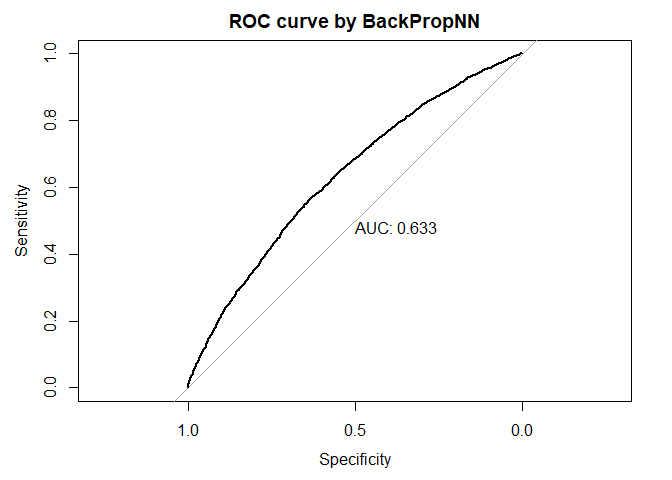
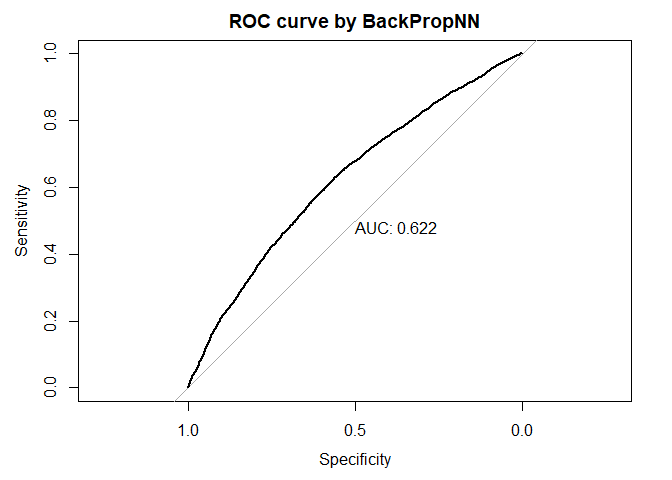
Updated the README file to include the comparison between original and Rcpp versions.

diff --git a/README.md b/README.md
@@ -15,19 +15,14 @@ learning from the errors of each dataset point one by one. In this
 package, 3 layer (input, one hidden and output) neural network is
 considered. The mathematical equation involved are given below,
 
-FeedForward:
-
-\[H\] = sigma(\[W_IH\].\[I\] + \[B_H\])  
-\[O\] =
+FeedForward: \[H\] = sigma(\[W_IH\].\[I\] + \[B_H\]) \[O\] =
 sigma(\[W_HO\].\[H\] + \[B_O\])
 
-Backpropagation:
-
-\[delta_W\_HO\] =
-(learning_rate)\[Output_Errors\]x\[O(1-O)\].\[H_tranpose\]  
+Backpropagation: \[delta_W\_HO\] =
+(learning_rate)\[Output_Errors\]x\[O(1-O)\].\[H_tranpose\]
 \[delta_W\_IH\] =
-(learning_rate)\[Hiddden_Errors\]x\[H(1-H)\].\[I_tranpose\]  
-\[delta_B\_O\] = (learning_rate)\[Output_Errors\]x\[O(1-O)\]  
+(learning_rate)\[Hiddden_Errors\]x\[H(1-H)\].\[I_tranpose\]
+\[delta_B\_O\] = (learning_rate)\[Output_Errors\]x\[O(1-O)\]
 \[delta_B\_H\] = (learning_rate)\[Hidden_Errors\]x\[H(1-H)\]
 
 Where, \[\] represents the matrix, x represents the Hadamard
@@ -100,8 +95,8 @@ plot(nn_model)
     #> Call:
     #> roc.default(response = data[, ncol(data)], predictor = nn_R_pred,     plot = TRUE, print.auc = TRUE, main = "ROC curve by R nnet")
     #> 
-    #> Data: nn_R_pred in 4965 controls (data[, ncol(data)] 0) < 5035 cases (data[, ncol(data)] 1).
-    #> Area under the curve: 0.4984
+    #> Data: nn_R_pred in 4970 controls (data[, ncol(data)] 0) < 5030 cases (data[, ncol(data)] 1).
+    #> Area under the curve: 0.5
     summary(nn_model)
     #> $num_nodes
     #>  # of input nodes # of hidden nodes # of output nodes 
@@ -115,35 +110,69 @@ plot(nn_model)
     #> 
     #> $weight_bias_matrices
     #> $weight_bias_matrices$weight_input_hidden
-    #>              X1         X2
-    #> [1,] 0.05074066 0.04718817
-    #> [2,] 0.05074066 0.04718817
-    #> [3,] 0.05074066 0.04718817
-    #> [4,] 0.05074066 0.04718817
+    #>               X1          X2
+    #> [1,] -0.01080641 -0.08982863
+    #> [2,] -0.01080641 -0.08982863
+    #> [3,] -0.01080641 -0.08982863
+    #> [4,] -0.01080641 -0.08982863
     #> 
     #> $weight_bias_matrices$weight_hidden_output
-    #>             [,1]        [,2]        [,3]        [,4]
-    #> [1,] -0.03679344 -0.03679344 -0.03679344 -0.03679344
+    #>            [,1]       [,2]       [,3]       [,4]
+    #> [1,] 0.08357506 0.08357506 0.08357506 0.08357506
     #> 
     #> $weight_bias_matrices$bias_hidden
-    #>            [,1]
-    #> [1,] 0.01089685
-    #> [2,] 0.01089685
-    #> [3,] 0.01089685
-    #> [4,] 0.01089685
+    #>             [,1]
+    #> [1,] 0.009227459
+    #> [2,] 0.009227459
+    #> [3,] 0.009227459
+    #> [4,] 0.009227459
     #> 
     #> $weight_bias_matrices$bias_output
     #>           [,1]
-    #> [1,] 0.0858438
+    #> [1,] 0.2083556
     print(nn_model)
     #> Warning: Some expressions had a GC in every iteration; so filtering is disabled.
     #> # A tibble: 2 x 13
     #>   expression   min median `itr/sec` mem_alloc gc/se~1 n_itr  n_gc total~2 result
     #>   <bch:expr> <dbl>  <dbl>     <dbl>     <dbl>   <dbl> <int> <dbl> <bch:t> <list>
-    #> 1 BackPropNN  39.1   23.7      1         1        Inf     1    14   502ms <NULL>
-    #> 2 R nnet       1      1        5.70      6.82     NaN     8     0   705ms <NULL>
+    #> 1 BackPropNN  23.8   20.5      1         1       15.9     2    26   864ms <NULL>
+    #> 2 R nnet       1      1        6.56      6.82     1       8     1   527ms <NULL>
     #> # ... with 3 more variables: memory <list>, time <list>, gc <list>, and
     #> #   abbreviated variable names 1: `gc/sec`, 2: total_time
     #> $mse_comparison
     #>     MSE by R nnet MSE by BackPropNN 
-    #>         0.2359459         0.2503443
+    #>         0.2369558         0.2523825
+
+# Now, let’s check if the Rcpp version of BackPropNN helps to improve the computational speed.
+
+``` r
+# Running NN models using both versions.
+nn_model_original <- back_propagation_training(i, h, o, learning_rate,
+                                          activation_func, data)
+nn_model_rcpp <- back_propagation_training_rcpp(i, h, o, learning_rate,
+                                          activation_func, as.matrix(data))
+
+# Running the benchmark comparison for training part.
+bench::mark("Original"=back_propagation_training(i, h, o, learning_rate,
+                                          activation_func, data),
+                    "Rcpp"=back_propagation_training_rcpp(i, h, o, learning_rate,
+                                          activation_func, as.matrix(data)),
+                    relative = TRUE, check = FALSE)
+#> Warning: Some expressions had a GC in every iteration; so filtering is disabled.
+#> # A tibble: 2 x 6
+#>   expression   min median `itr/sec` mem_alloc `gc/sec`
+#>   <bch:expr> <dbl>  <dbl>     <dbl>     <dbl>    <dbl>
+#> 1 Original    121.   119.        1       1        18.7
+#> 2 Rcpp          1      1       115.      2.41      1
+
+# Running the benchmark comparison for training part.
+bench::mark("Original"=feed_forward(data, nn_model_original),
+                    "Rcpp"=feed_forward_rcpp(data, nn_model_rcpp),
+                    relative = TRUE, check = FALSE)
+#> Warning: Some expressions had a GC in every iteration; so filtering is disabled.
+#> # A tibble: 2 x 6
+#>   expression   min median `itr/sec` mem_alloc `gc/sec`
+#>   <bch:expr> <dbl>  <dbl>     <dbl>     <dbl>    <dbl>
+#> 1 Original    283.   274.        1       2.77      Inf
+#> 2 Rcpp          1      1       263.      1         NaN
+```
